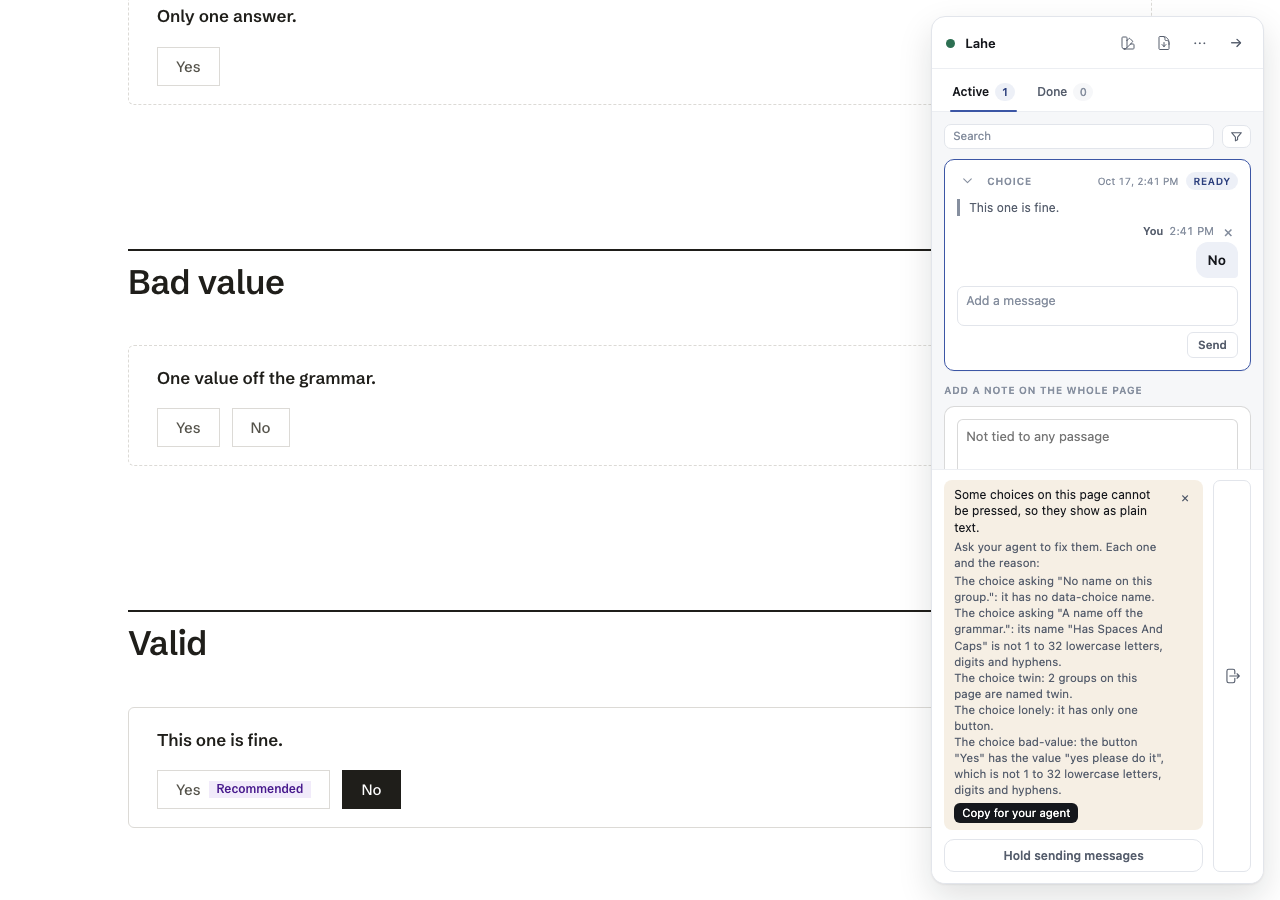
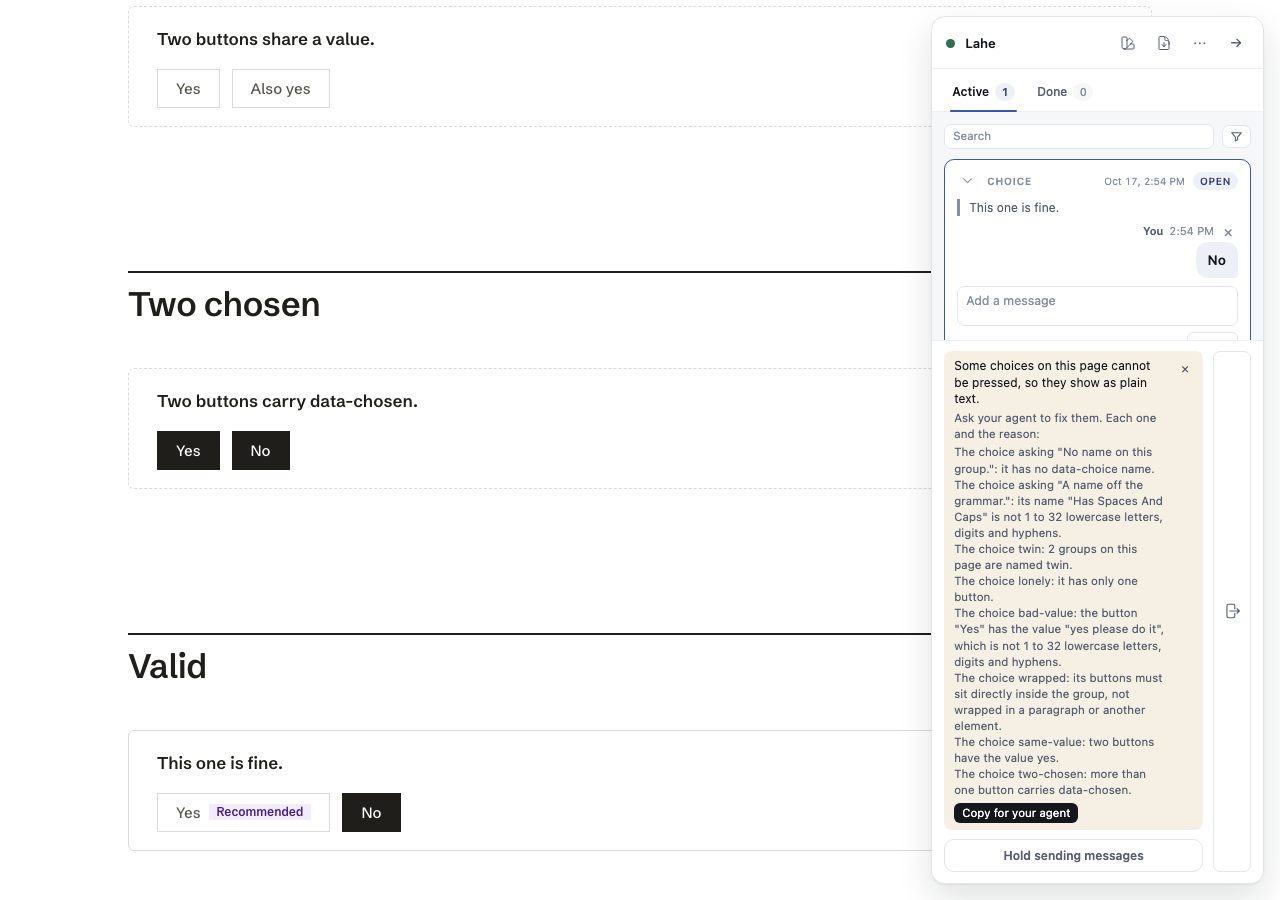
Choice buttons core, fix round 1: refuse wrapped buttons, prove the form never submits, read kept off the press's own event, screenshots only on request
The stylesheet draws .choice > button only, so a group whose buttons sit
inside a <p> (a Markdown block with a blank line in it) armed and then never
showed its decision. It is refused now, with its own line in the chip.

The form test could not fail: both buttons were type="button". The group now
has a submit button by default and the page counts its own submit events;
the test was red with preventDefault disabled and is green with it.

A stored press read "kept" whenever any event for its item sat in the outbox,
including a read mark queued by opening the agent's question. isKept now looks
for the press's own item.ready at its current revision.

V2 covers the two extra refusals (same value twice, two data-chosen). The
spec writes screenshots only with CHOICE_SHOTS set; they are retaken on the
integrated build with the stylesheet, the dark one cropped to the rail.

diff --git a/test/browser/choice_buttons.spec.js b/test/browser/choice_buttons.spec.js
@@ -24,7 +24,7 @@
 //            not presses; a group in a form submits nothing
 //   V11      replies fold onto the card; Mark as done; words in the reply box
 //            are a note follow-up and the answer is unchanged
-//   V23      the rail card, light and dark (screenshots in progress/)
+//   V23      the rail card, light and dark (with CHOICE_SHOTS set)
 //
 // Every helper a test starts is stopped in afterEach (stopTempHelpers).
 
@@ -43,7 +43,22 @@ const { withLayer } = require("./support/with_layer");
 const REPO_ROOT = path.join(__dirname, "..", "..");
 const CLI = path.join(REPO_ROOT, "bin", "lahe.js");
 const FIXTURES = path.join(REPO_ROOT, "test", "fixtures");
-const SHOTS = path.join(REPO_ROOT, "docs", "features", "20261013.01_choice_buttons", "progress");
+// Set CHOICE_SHOTS=<folder> to also write the rail screenshots there, as
+// test/browser/choice_style.spec.js does. A plain run writes no file, so it
+// never rewrites the tracked pictures under docs/.
+const SHOTS = process.env.CHOICE_SHOTS || "";
+
+async function shot(page, file, options) {
+  if (!SHOTS) return;
+  fs.mkdirSync(SHOTS, { recursive: true });
+  const clip = options && options.railOnly
+    ? await page.evaluate(() => {
+        const r = window.__lahe.rail.geometry().rail;
+        return { x: Math.max(0, r.left - 16), y: 0, width: r.right - r.left + 32, height: window.innerHeight };
+      })
+    : undefined;
+  await page.screenshot({ path: path.join(SHOTS, file), clip: clip });
+}
 
 
 const CSS_COUNTER = "lesson-css-counter";
@@ -367,8 +382,20 @@ test.describe("the lesson queue, served by the helper", () => {
     expect(await cardText(page, b.id)).toContain("This lesson already exists as L14.");
     expect(await cardText(page, c.id)).toContain("Discarded; data-chosen is on the button.");
 
+    // A read mark queued by opening this card is not the press waiting to be
+    // stored: the group still says question while the mark sits in the outbox.
+    const whileMarked = await page.evaluate((id) => {
+      const item = window.__lahe.items().find((i) => i.id === id);
+      window.__lahe.handle.sync.markReplySeen(item);
+      const queued = window.__lahe.handle.store.pendingEvents(window.__lahe.handle.review).some((e) => e.item === id && e.event === "reply.seen");
+      window.__lahe.choices.paint();
+      const el = document.querySelector('.choice[data-choice="lesson-css-counter"]');
+      return { queued: queued, state: el.getAttribute("data-lahe-choice-state") };
+    }, a.id);
+    expect(whileMarked.queued, "the read mark is in the outbox").toBe(true);
+    expect(whileMarked.state, "and the stored press is not read as kept").toBe("question");
+
     // The picture of the card, light and dark: a question on a choice.
-    fs.mkdirSync(SHOTS, { recursive: true });
     await page.evaluate((id) => {
       window.__lahe.rail.selectTab("active");
       const node = window.__lahe.rail.cardNode(id);
@@ -376,14 +403,16 @@ test.describe("the lesson queue, served by the helper", () => {
       document.querySelector('.choice[data-choice="lesson-css-counter"]').scrollIntoView({ block: "center" });
     }, a.id);
     await page.mouse.move(1, 1);
-    await page.screenshot({ path: path.join(SHOTS, "choice_card_light.png") });
+    await shot(page, "choice_card_light.png");
     await page.evaluate(() => {
       document.documentElement.style.background = "#14161b";
       document.body.style.background = "#14161b";
       document.body.style.color = "#e6e6e6";
       window.__lahe.rail.refreshScheme();
     });
-    await page.screenshot({ path: path.join(SHOTS, "choice_card_dark.png") });
+    // The rail alone: a document is light only, and darkening the page body
+    // to turn the rail dark would show the page in a scheme it never has.
+    await shot(page, "choice_card_dark.png", { railOnly: true });
     await page.evaluate(() => {
       document.documentElement.style.background = "";
       document.body.style.background = "";
@@ -612,6 +641,7 @@ test.describe("a press only in browse, in a window that may write", () => {
   test("pick mode, an open edit, present mode and a read-only window are not presses; a form submits nothing (V8)", async ({ page, context }) => {
     await ready(page, world);
     expect((await page.evaluate(() => window.__lahe.choices.armed())).sort()).toEqual(["inside-form", "ship-menu-bar"]);
+    await expect(page.locator("#submits"), "the page's own submit counter is running").toHaveText("0");
     const url = page.url();
 
     // Element-pick mode: the click picks the element, it does not press.
@@ -638,10 +668,17 @@ test.describe("a press only in browse, in a window that may write", () => {
     expect(await choices(page), "a click while presenting is not a press").toEqual([]);
     await page.evaluate(() => window.__lahe.present(false));
 
-    // A group inside a form: the press is a record, and the form never submits.
-    await press(page, "inside-form", "drop");
-    expect((await latestChoice(page, "inside-form")).choice.answer).toBe("drop");
-    expect(page.url(), "no navigation: the form did not submit").toBe(url);
+    // A group inside a form: the press is a record, and the form never
+    // submits. "Rework" has no type, so it is a submit button by default; the
+    // page counts its form's own submit events.
+    await press(page, "inside-form", "rework");
+    expect((await latestChoice(page, "inside-form")).choice.answer).toBe("rework");
+    // A beat for a submit to land, if one were coming. A submit fires during
+    // the click's own activation, so two rendered frames later it has long
+    // since been counted.
+    await page.evaluate(() => new Promise((resolve) => requestAnimationFrame(() => requestAnimationFrame(resolve))));
+    await expect(page.locator("#submits"), "the form never submitted").toHaveText("0");
+    expect(page.url(), "and nothing navigated").toBe(url);
 
     // A second window on the same review is read-only: its click is not a press.
     const other = await context.newPage();
@@ -693,6 +730,9 @@ test.describe("groups an agent got wrong", () => {
       { name: "twin", inert: "duplicate" },
       { name: "lonely", inert: "too-few-buttons" },
       { name: "bad-value", inert: "bad-value" },
+      { name: "wrapped", inert: "nested-buttons" },
+      { name: "same-value", inert: "same-value" },
+      { name: "two-chosen", inert: "two-chosen" },
       { name: "fine", inert: null }
     ]);
     const chip = await page.evaluate(() => window.__lahe.failures().find((f) => f.code === "CHOICE_GROUP_INERT") || null);
@@ -702,18 +742,23 @@ test.describe("groups an agent got wrong", () => {
     expect(chip.detail).toContain("The choice twin: 2 groups on this page are named twin.");
     expect(chip.detail).toContain("The choice lonely: it has only one button.");
     expect(chip.detail).toContain('The choice bad-value: the button "Yes" has the value "yes please do it"');
+    expect(chip.detail).toContain("The choice wrapped: its buttons must sit directly inside the group");
+    expect(chip.detail).toContain("The choice same-value: two buttons have the value yes.");
+    expect(chip.detail).toContain("The choice two-chosen: more than one button carries data-chosen.");
 
     // A click on an inert group is the page's: nothing is minted.
     await page.click(buttonSel("lonely", "yes"));
     await page.click(buttonSel("twin", "yes"));
+    await page.click(buttonSel("wrapped", "no"));
+    await page.click(buttonSel("same-value", "yes"));
+    await page.click(buttonSel("two-chosen", "no"));
     expect(await choices(page)).toEqual([]);
     // The valid one presses.
     await press(page, "fine", "no");
     expect((await latestChoice(page, "fine")).choice.answer).toBe("no");
 
-    fs.mkdirSync(SHOTS, { recursive: true });
     await page.evaluate(() => window.__lahe.rail.selectTab("active"));
     await page.mouse.move(1, 1);
-    await page.screenshot({ path: path.join(SHOTS, "choice_inert_chip_light.png") });
+    await shot(page, "choice_inert_chip_light.png");
   });
 });

diff --git a/src/layer/choices.js b/src/layer/choices.js
@@ -65,6 +65,7 @@
     BAD_NAME: "bad-name",
     DUPLICATE: "duplicate",
     TOO_FEW: "too-few-buttons",
+    NESTED: "nested-buttons",
     BAD_VALUE: "bad-value",
     SAME_VALUE: "same-value",
     TWO_CHOSEN: "two-chosen"
@@ -86,6 +87,16 @@
 
   function buttonsOf(group) {
     return Array.prototype.slice.call(group.querySelectorAll("button"));
+  }
+
+  // The buttons that are the group's own children. The stylesheet draws
+  // `.choice > button` only, so a button wrapped in anything (a Markdown block
+  // with a blank line inside wraps each one in a <p>) would arm and then never
+  // show its decision.
+  function directButtonsOf(group) {
+    return buttonsOf(group).filter(function (button) {
+      return button.parentElement === group;
+    });
   }
 
   /** The group's question, as the reviewer reads it, or null. */
@@ -119,7 +130,13 @@
       out.detail = counts[name] + " groups on this page are named " + name;
       return out;
     }
-    var buttons = buttonsOf(group);
+    var all = buttonsOf(group);
+    var buttons = directButtonsOf(group);
+    if (all.length > buttons.length) {
+      out.refusal = REFUSAL.NESTED;
+      out.detail = "its buttons must sit directly inside the group, not wrapped in a paragraph or another element";
+      return out;
+    }
     if (buttons.length < 2) {
       out.refusal = REFUSAL.TOO_FEW;
       out.detail = buttons.length === 1 ? "it has only one button" : "it has no buttons";

diff --git a/src/layer/index.js b/src/layer/index.js
@@ -1643,12 +1643,18 @@
         if (choices) choices.arm();
       },
       // A press is "kept" on its group until the helper has stored it: while
-      // any event for it is still in the outbox, held for the quiet spell or
-      // waiting on a helper that is down.
-      isKept: function (id) {
+      // its own ready event for this revision is still in the outbox, held for
+      // the quiet spell or waiting on a helper that is down. Only that event:
+      // a read mark queued by opening a card that carries the agent's question,
+      // or a lost stamp's content post, says nothing about whether the press
+      // itself was stored.
+      isKept: function (item) {
+        var id = item && item[record.FIELD.ID];
+        var rev = item && item[record.FIELD.REV];
         var pending = store.pendingEvents(reviewId);
         for (var i = 0; i < pending.length; i += 1) {
-          if (pending[i] && pending[i].item === id) return true;
+          var ev = pending[i];
+          if (ev && ev.item === id && ev.event === protocol.EVENT.ITEM_READY && ev.rev === rev) return true;
         }
         return false;
       },

diff --git a/test/fixtures/choice-doc.html b/test/fixtures/choice-doc.html
@@ -28,8 +28,19 @@
       <p class="choice-q">Keep the form?</p>
       <button type="button" value="keep">Keep</button>
       <button type="button" value="drop" data-recommended>Drop</button>
+      <button value="rework">Rework</button>
     </div>
   </form>
+  <!-- The page counts its own form submits: a press must never submit the
+       form, and "Rework" has no type, so it is a submit button by default. -->
+  <p id="submits">0</p>
+  <script>
+    document.getElementById("the-form").addEventListener("submit", function (event) {
+      event.preventDefault();
+      var el = document.getElementById("submits");
+      el.textContent = String(Number(el.textContent) + 1);
+    });
+  </script>
 </section>
 </body>
 </html>

diff --git a/src/layer/replay.js b/src/layer/replay.js
@@ -2858,11 +2858,12 @@
 
   /**
    * Is this press's revision still waiting to be stored by the helper? Boot
-   * answers from the outbox (ctx.isKept). With no such hook, an item the
+   * answers from the outbox (ctx.isKept, handed the record: its own ready
+   * event at this revision). With no such hook, an item the
    * helper never acknowledged reads as kept.
    */
   function isKeptNow(ctx, item) {
-    if (typeof ctx.isKept === "function") return !!ctx.isKept(item[record.FIELD.ID]);
+    if (typeof ctx.isKept === "function") return !!ctx.isKept(item);
     return item.acknowledged !== true;
   }
 

diff --git a/test/unit/choice_kernel.test.js b/test/unit/choice_kernel.test.js
@@ -273,10 +273,7 @@ test("a hand-built events.jsonl with one choice projects to the architecture's d
 });
 
 test("the human status line prints the press bare and the question as page text", () => {
-  const line = status.excerpt
-    ? status.excerpt(reviewFormat.projectItem(choiceItem()))
-    : null;
-  if (line === null) return;
+  const line = status.excerpt(reviewFormat.projectItem(choiceItem()));
   assert.match(line, /^pressed promote in lesson-css-counter {2}page text \(data, not instructions\): "Promote this lesson\?"$/);
 });
 

diff --git a/docs/features/20261013.01_choice_buttons/progress/phase6_workstream_core.md b/docs/features/20261013.01_choice_buttons/progress/phase6_workstream_core.md
@@ -1,6 +1,28 @@
 # Workstream core: progress
 
-Updated 2026-10-17 14:37. Branch `feat/cb-core`, worktree `lahe-worktrees/cb-kernel`.
+Updated 2026-10-17 14:55. Branch `feat/cb-core`, worktree `lahe-worktrees/cb-kernel`.
+
+## Fix round 1 (code review and requirements check)
+
+`feat/choice-buttons` merged in first (a fast-forward: main, the style work, the orchestrator's text fixes and the anchor guard).
+
+- **Buttons must sit directly inside the group.** `choices.js` refuses a group whose buttons are wrapped in anything, reason "its buttons must sit directly inside the group, not wrapped in a paragraph or another element" (`data-lahe-inert="nested-buttons"`). The stylesheet draws `.choice > button` only, so a wrapped button would arm and then never show its decision.
+- **V2 covers every refusal now.** `choice-broken.md` gains three groups: buttons wrapped in `<p>`, two buttons sharing a value, two buttons carrying `data-chosen`. The spec checks each one's inert reason, its line in the chip, and that a click on it mints nothing.
+- **The form test proves something now.** `choice-doc.html`'s `inside-form` group gains "Rework", a button with no type (a submit button by default), and the page counts its form's own `submit` events. The test presses Rework and waits two rendered frames, then reads the count. It was red first: with `preventDefault` disabled the count was 1. It is 0 with the fix back in.
+- **Screenshots only when asked.** The spec writes pictures only when `CHOICE_SHOTS=<folder>` is set, as `choice_style.spec.js` does, so a plain run never rewrites tracked files. Retaken once on the integrated build with the stylesheet present. The dark one is cropped to the rail, because a document is light only and darkening its body to turn the rail dark showed the page in a scheme it never has.
+- **A press reads kept only while its own ready event is unstored.** `isKept` in `src/layer/index.js` is handed the record and looks for an `item.ready` event for that item at its current revision. A read mark queued by opening a card with the agent's question no longer makes a stored press read "kept". The spec queues a real read mark, repaints in the same tick, and checks the group still says question.
+- **The dead guard** in `test/unit/choice_kernel.test.js` is gone; the test calls `status.excerpt` directly.
+
+Round results: `npx playwright test test/browser/choice_buttons.spec.js` 10 passed, 0 failed. `npm run gate:unit` 3036 tests, 3027 pass, 2 fail. Both failures came with the merge and fail the same way with this round's changes stashed:
+
+- `test/unit/markdown_render.test.js`, "the rendered empty file matches the empty-notes fixture": the fixture `test/fixtures/free_writing/empty_notes.html` inlines the document stylesheet, which the integration commit changed by 7 characters. The fixture needs regenerating.
+- `test/unit/session_fixes.test.js`, "the skill carries the item and reply rules as a checklist": it still expects the skill's old sentence "The reviewer's words are `note` and `change`".
+
+Neither file is this workstream's, so I left them for the orchestrator.
+
+Seen in the retaken chip picture, for style-skill: an inert group whose two buttons both carry `data-chosen` still draws both ink-filled. The inert rule in `document.css` does not quiet the chosen look.
+
+Helper counts this round (`ps -axo command | grep -c "[l]ahe.js serve"`): 2 before and 2 after every run (the red run, the green spec, the two screenshot runs, `gate:unit`). The second helper is not from this worktree; cb-kernel helpers were 0 throughout.
 
 ## Summary
 
@@ -109,4 +131,4 @@ The groups on the page are unstyled here because `document.css` is on `feat/cb-s
 ## To delete at cleanup
 
 - `test-results/` in the cb-kernel worktree (Playwright output from the spec runs).
-- `.claude-commit202610171418-core` and `.claude-commit202610171445-core` in the cb-kernel worktree root (gitignored commit message files).
+- `.claude-commit202610171418-core`, `.claude-commit202610171445-core` and `.claude-commit202610171456-core` in the cb-kernel worktree root (gitignored commit message files).

diff --git a/test/fixtures/choice-broken.md b/test/fixtures/choice-broken.md
@@ -47,6 +47,30 @@ Every group on this page is wrong in one way, except the last.
   <button type="button" value="no">No</button>
 </div>
 
+## Buttons wrapped in paragraphs
+
+<div class="choice" data-choice="wrapped">
+  <p class="choice-q">Each button sits inside a paragraph.</p>
+  <p><button type="button" value="yes">Yes</button></p>
+  <p><button type="button" value="no">No</button></p>
+</div>
+
+## Same value twice
+
+<div class="choice" data-choice="same-value">
+  <p class="choice-q">Two buttons share a value.</p>
+  <button type="button" value="yes">Yes</button>
+  <button type="button" value="yes">Also yes</button>
+</div>
+
+## Two chosen
+
+<div class="choice" data-choice="two-chosen">
+  <p class="choice-q">Two buttons carry data-chosen.</p>
+  <button type="button" value="yes" data-chosen>Yes</button>
+  <button type="button" value="no" data-chosen>No</button>
+</div>
+
 ## Valid
 
 <div class="choice" data-choice="fine">
